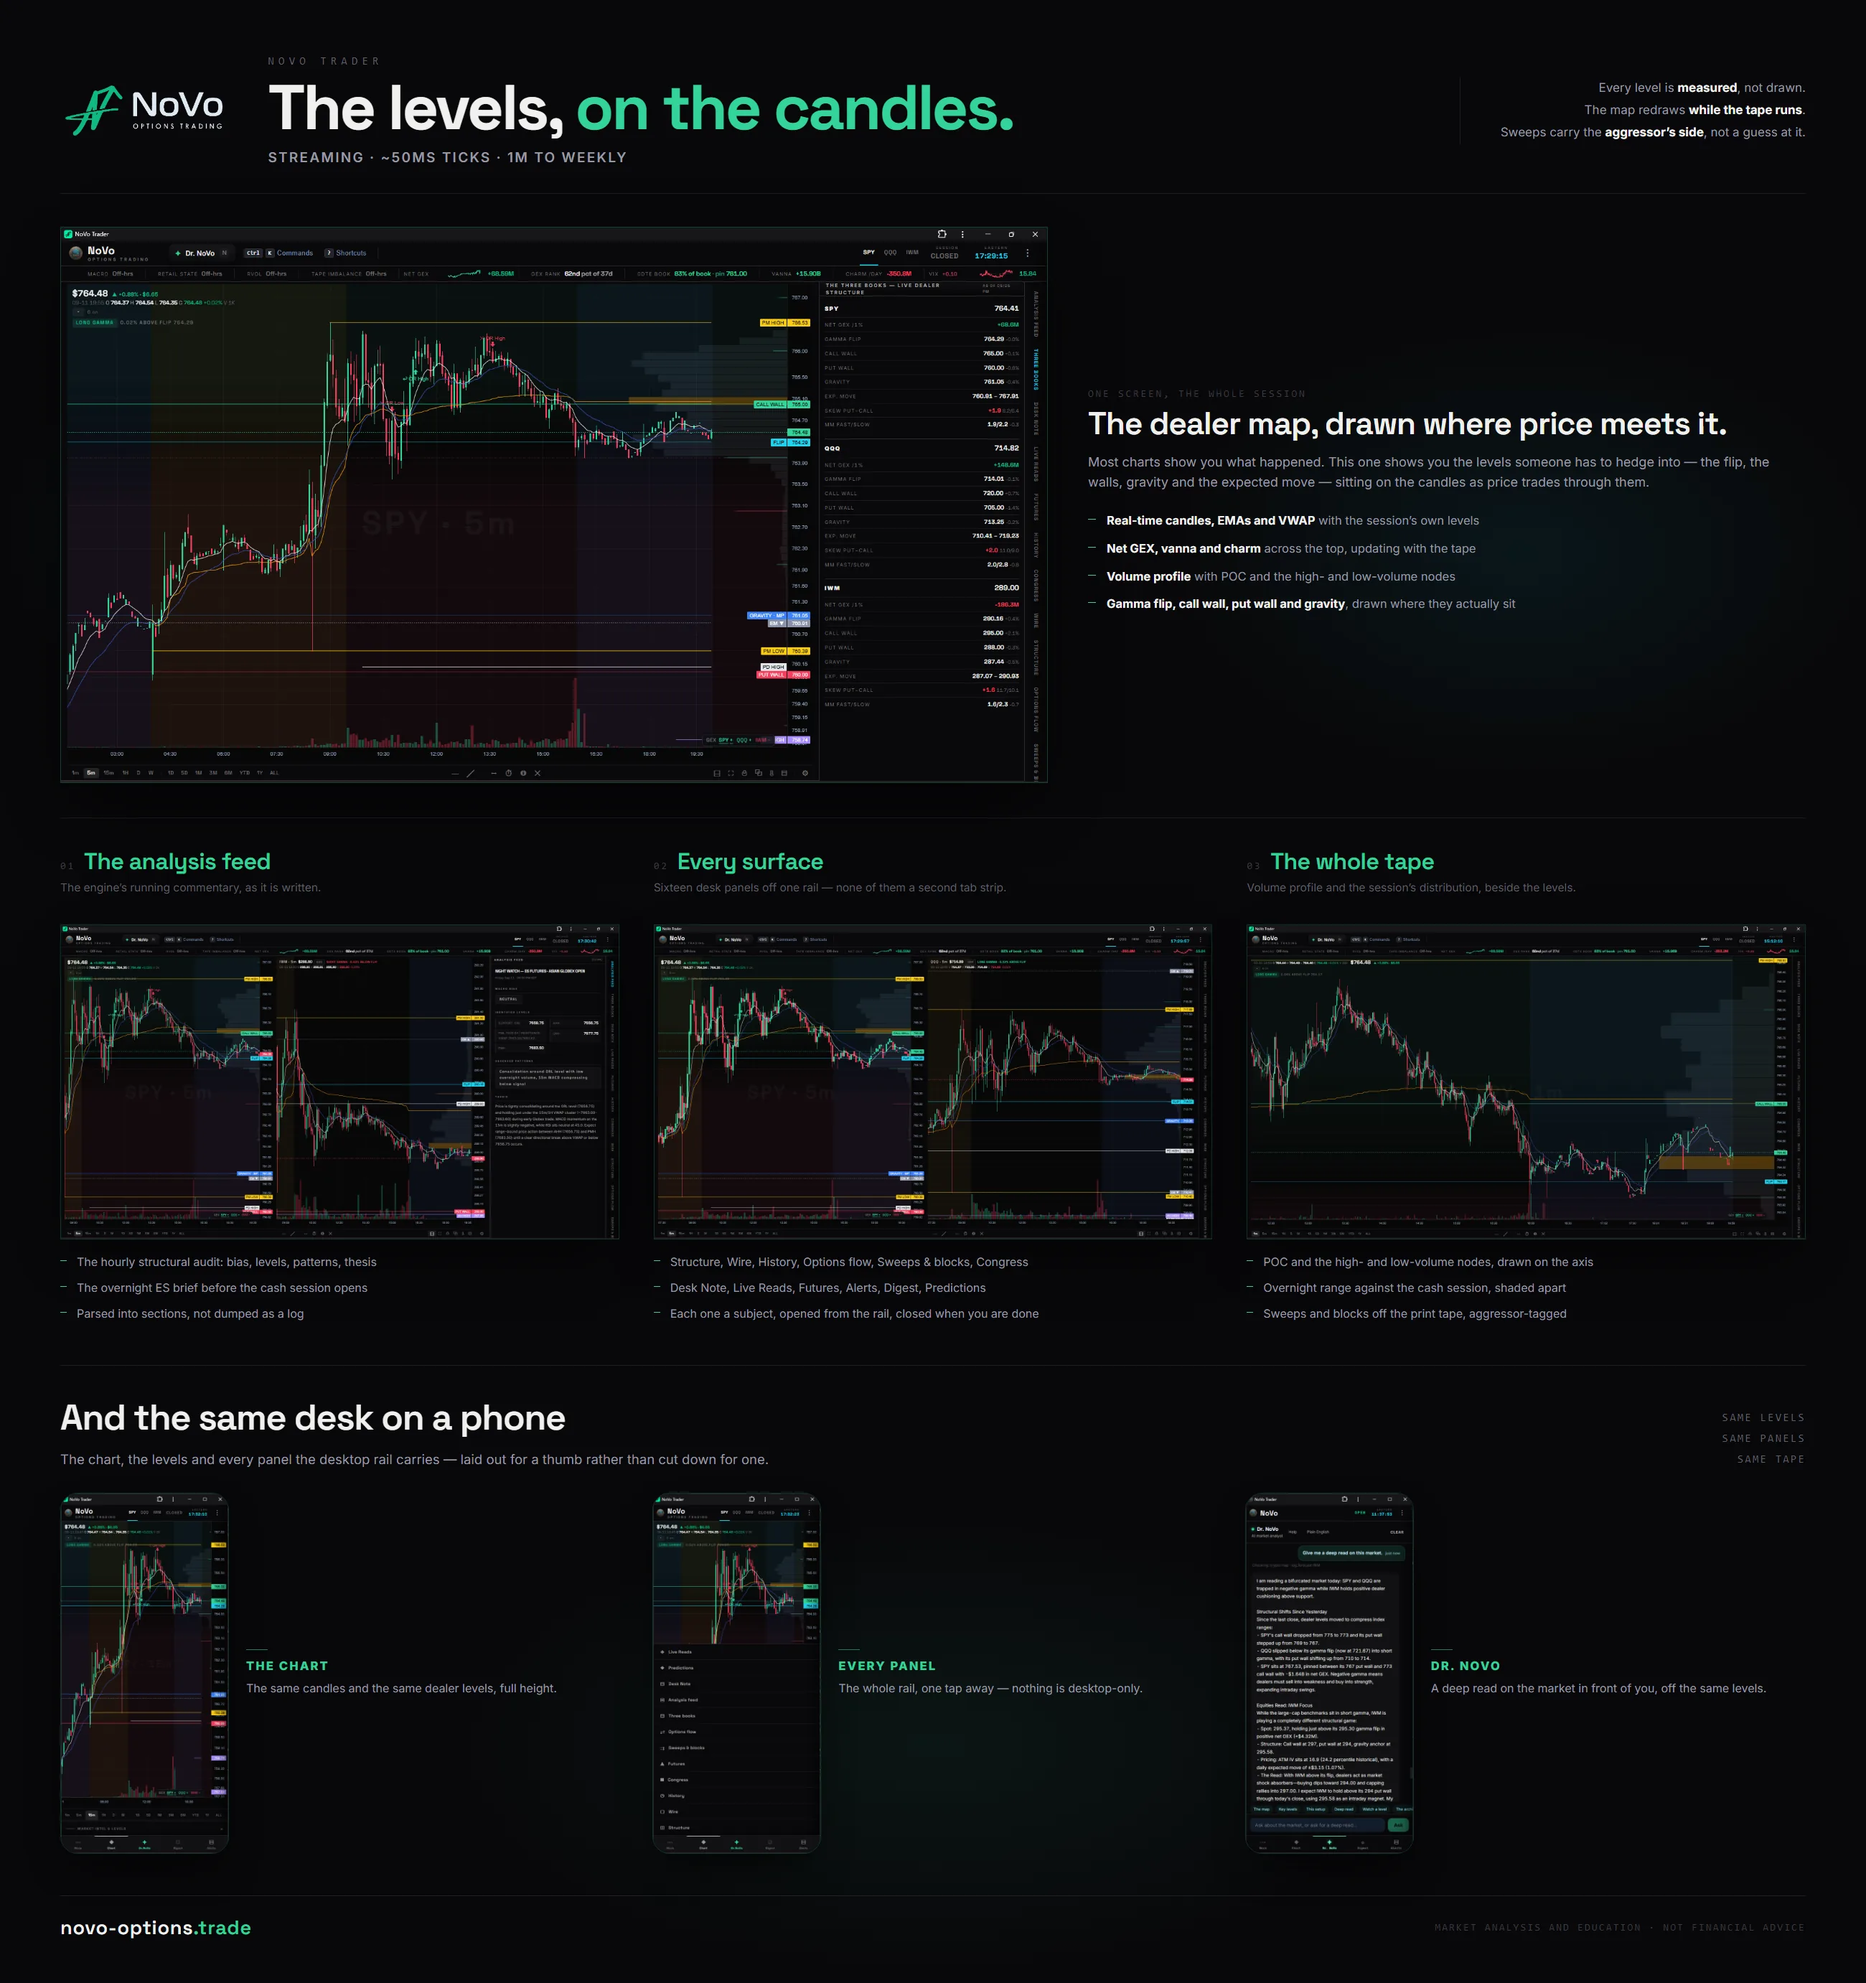
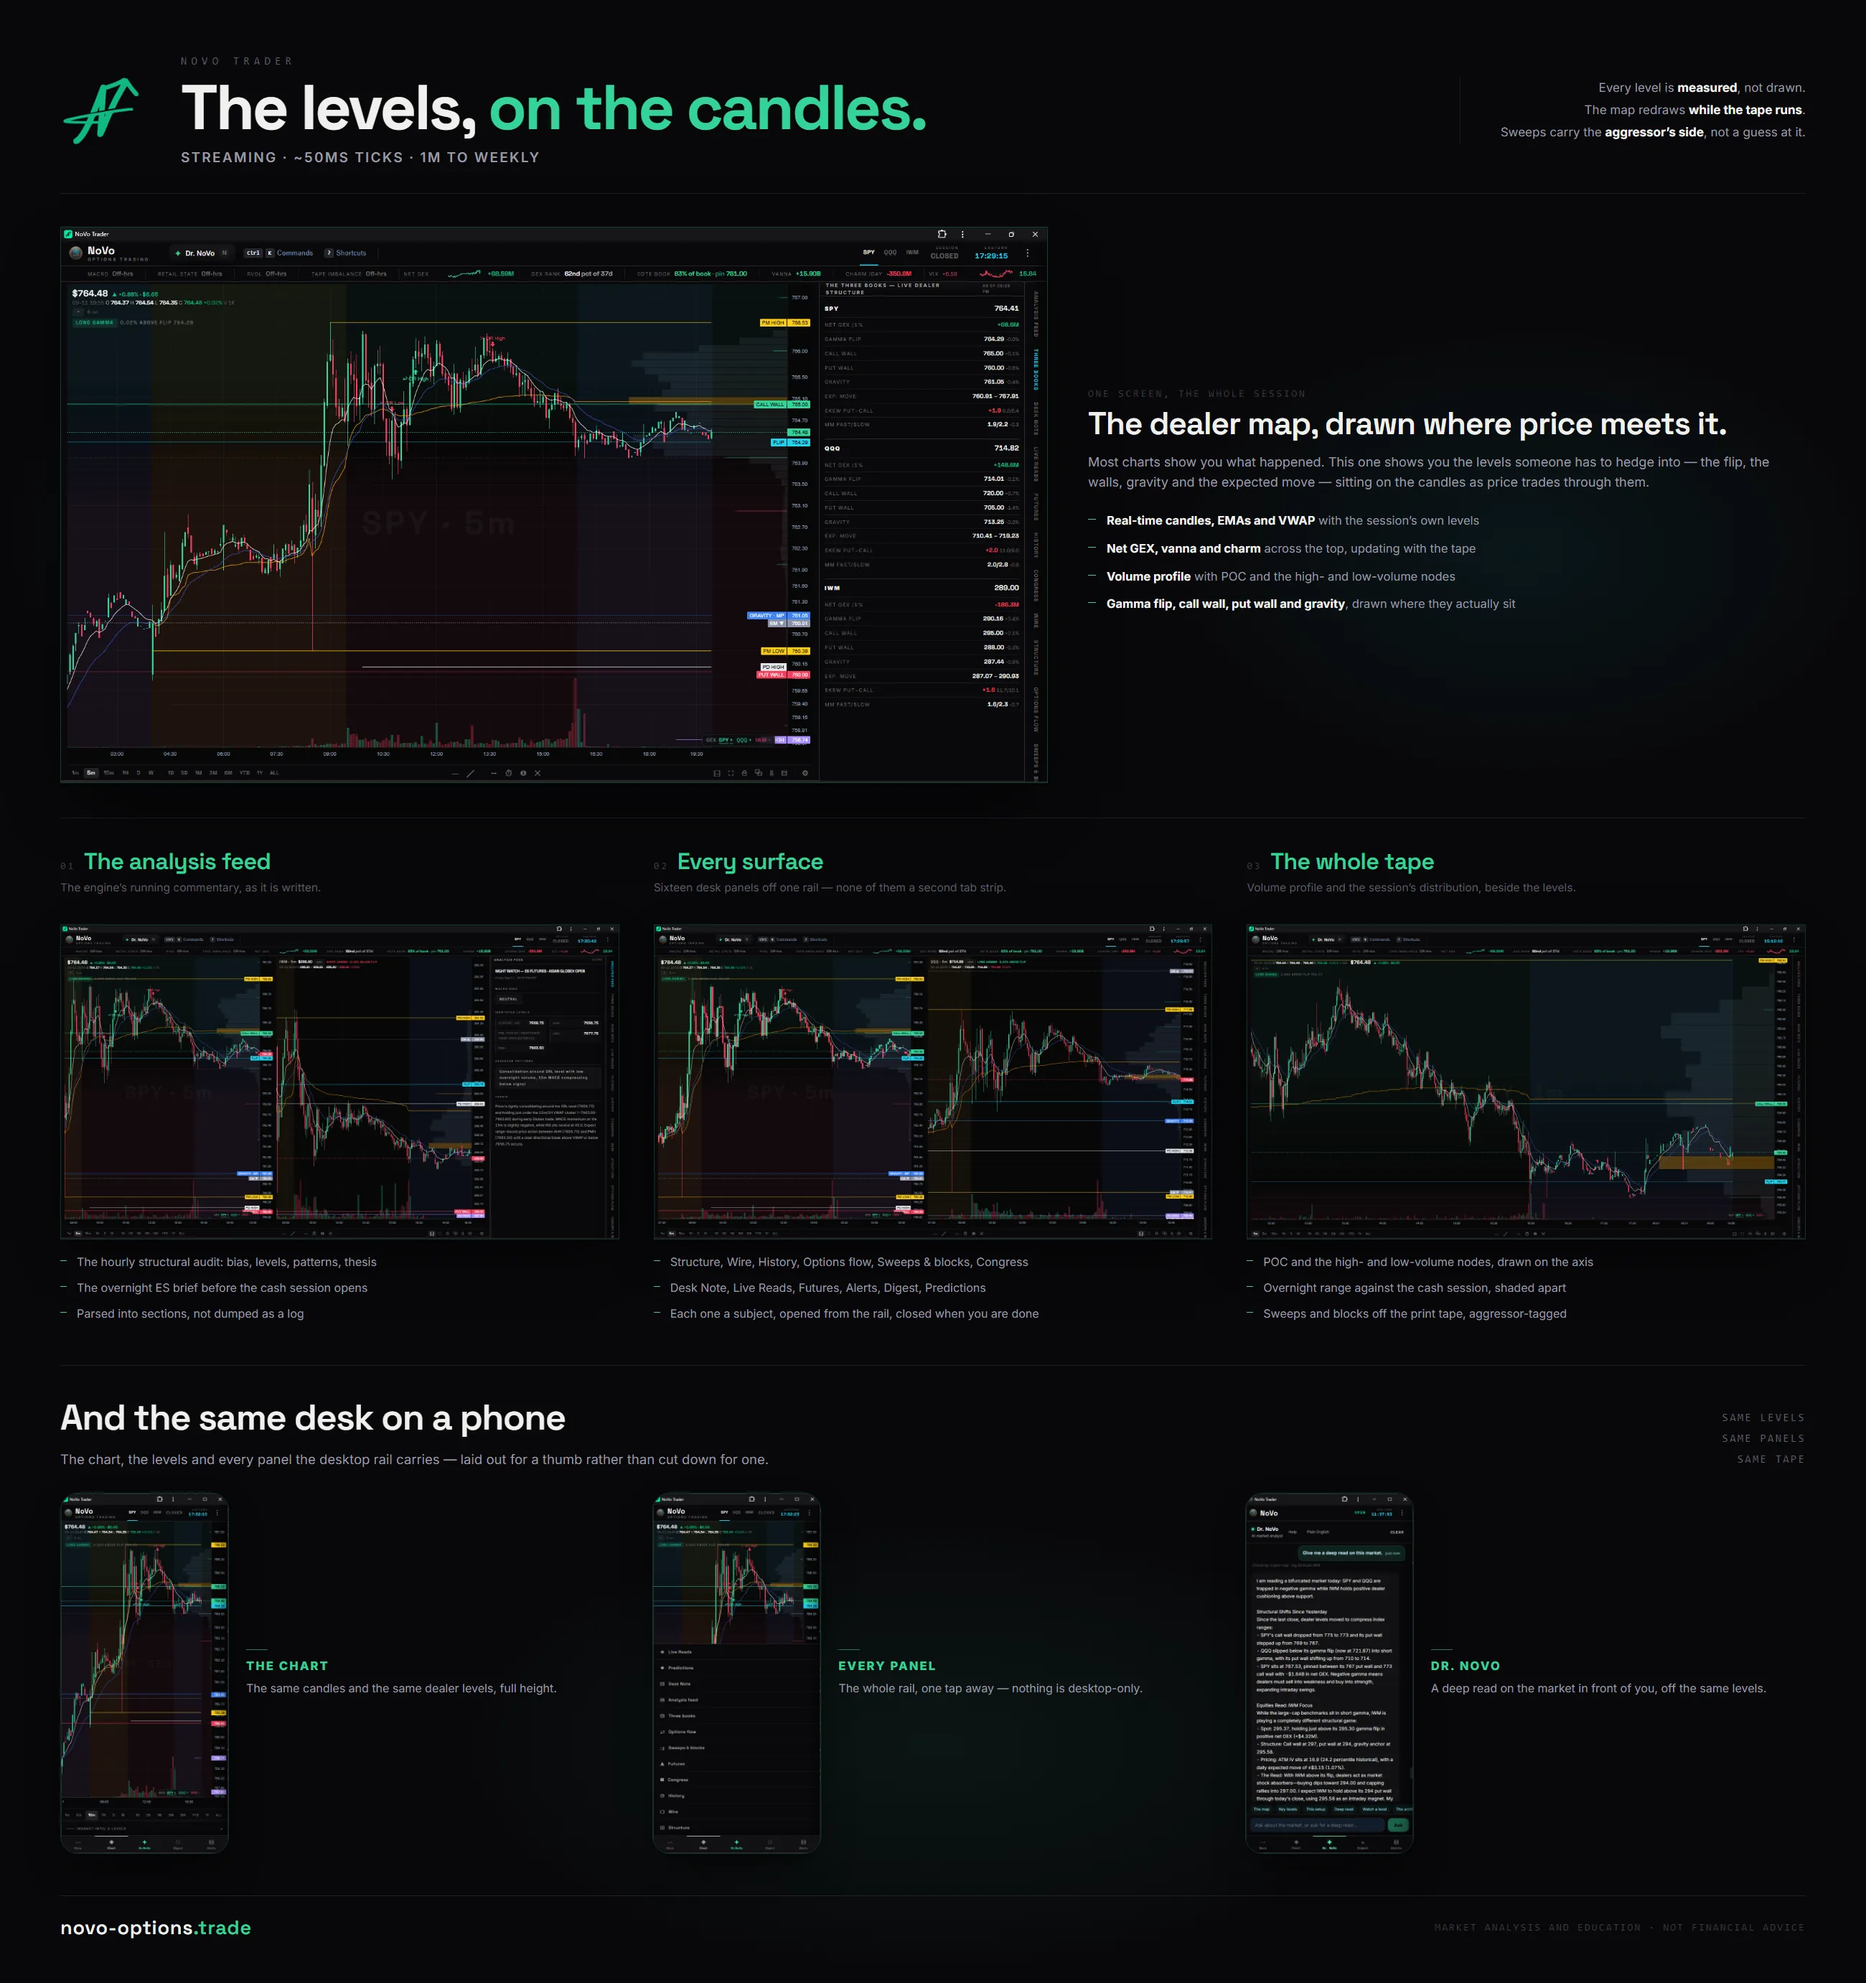
Analyst gets its feature strip, and the sheets take the glyph mark
Two from Jake, both on the live pages:

1. "ANALYST NEEDS A FEATURE STRIP TO MATCH THE REST." /crypto and /trader each
   carry a four-cell stats strip between the hero and the sheet; /analyst went
   straight from the CTA steps to the sheet, leaving a dead gap exactly where
   the other two put their proof. Added, structure copied from crypto's verbatim
   so the three match: 60s map refresh, 3 index ETFs, sessions scored, snapshots
   graded.

   ⚠ THE TWO RECORD FIGURES ARE data-tr-* SPANS, NOT TYPED NUMBERS.
   scripts/sync-track-record.js rewrites those every deploy; a hand-typed 1,045
   is a number that starts drifting the day it ships — that script's own header
   records one sitting stale at 23,953 while the API said 31,203. Confirmed
   wired: the sync went from 9 files to 10 and picked the new spans up.

2. "CRYPTO WORDMARK SAYS OPTIONS TRADING." It did, and it was wrong there.
   novo-logo-crypto.png is the full lockup and its second line reads OPTIONS
   TRADING — accurate for Analyst and Trader, wrong on a crypto map whose own
   dashboard header says CRYPTO MARKET MAP. brand/raster/mark-{cyan,green,violet}
   is the GLYPH ALONE in each product colour: no product-line claim at all, and
   the three sheets stay consistent with each other. The coin stays on the
   ecosystem sheet, which is the brand-level one.

   build.js's mark() now accepts a path, since these live under brand/raster/.
[…]

Changed region(s): [[0.0312, 0.0311, 0.5296, 0.0934]]

diff --git a/public/analyst.html b/public/analyst.html
@@ -682,6 +682,17 @@ height="0" width="0" style="display:none;visibility:hidden"></iframe></noscript>
   </div>
 </section>
 
+<section class="stats">
+  <div class="container">
+    <div class="stats-grid" style="grid-template-columns:repeat(4,1fr);text-align:center;">
+      <div><div class="stat-val" style="font-size:34px;font-weight:900;">60s</div><div style="font-size:12px;color:var(--txt3);letter-spacing:1px;text-transform:uppercase;margin-top:6px;">Map refresh, every session</div></div>
+      <div><div class="stat-val" style="font-size:34px;font-weight:900;">3</div><div style="font-size:12px;color:var(--txt3);letter-spacing:1px;text-transform:uppercase;margin-top:6px;">Index ETFs &mdash; SPY, QQQ, IWM</div></div>
+      <div><div class="stat-val" style="font-size:34px;font-weight:900;"><span data-tr-scored>1,045</span></div><div style="font-size:12px;color:var(--txt3);letter-spacing:1px;text-transform:uppercase;margin-top:6px;">Sessions scored</div></div>
+      <div><div class="stat-val" style="font-size:34px;font-weight:900;"><span data-tr-snapshots>38,854</span></div><div style="font-size:12px;color:var(--txt3);letter-spacing:1px;text-transform:uppercase;margin-top:6px;">Snapshots graded</div></div>
+    </div>
+  </div>
+</section>
+
 <!-- ═══ THE ANALYST SHEET ══════════════════════════════════════════════════════════
      Replaces the blue ONE HOUSE strip that stood here (Jake, 2026-09-12: "Delete that blue banner
      there from the analyst page and put the new mash up in its place"). Same slot as the sheets on
